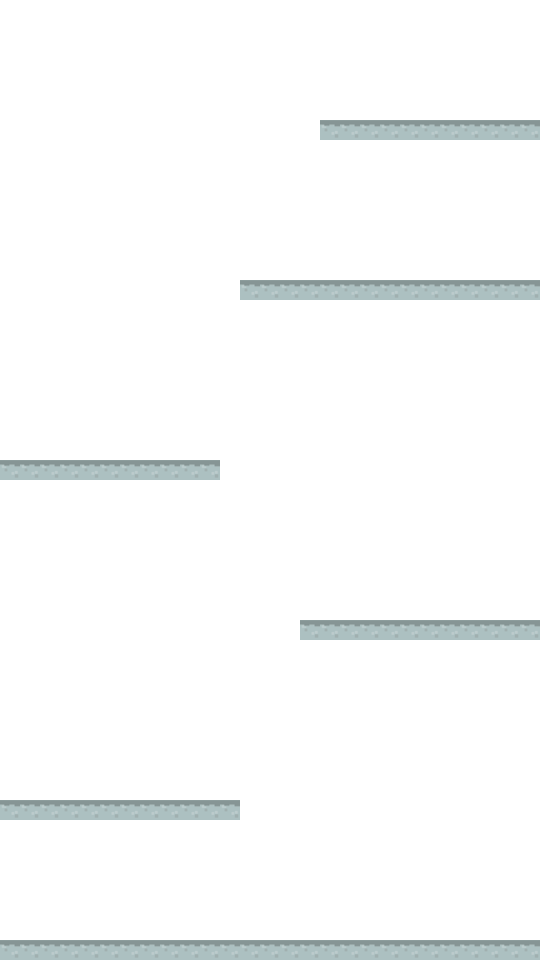
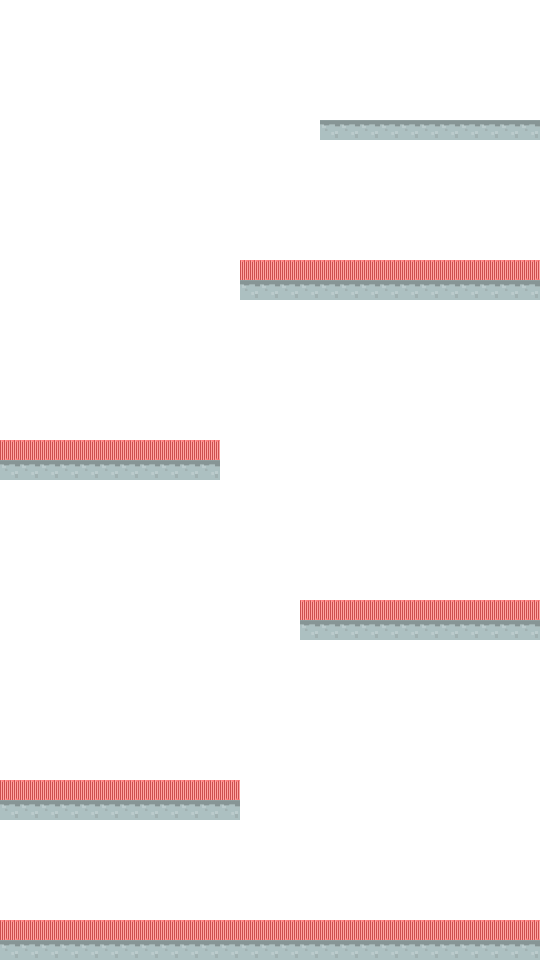
Improve screen generator

diff --git a/sky_kivy/convert_maps.py b/sky_kivy/convert_maps.py
@@ -27,7 +27,13 @@ pattern = "^map(\\d+).png"
 # tiles
 tile_size = 20
 tiledir = join(dirname(__file__), '..', 'platform_tutorial', 'images', 'tiles')
-tile = Image.open(join(tiledir, 'stoneMid.png')).resize((tile_size, tile_size))
+tiles = {
+    FLOOR_ROCK: Image.open(join(tiledir, 'stoneMid.png')).resize((tile_size, tile_size)),
+    FLOOR_MUD: Image.open(join(tiledir, 'dirtMid.png')).resize((tile_size, tile_size)),
+    FLOOR_ICE: Image.open(join(tiledir, 'snowMid.png')).resize((tile_size, tile_size)),
+    CHARGE: Image.open(join(tiledir, 'ray.png')).resize((tile_size, tile_size)),
+}
+
 
 def convert_maps():
     mapfiles = [f for f in listdir(mapdir) if isfile(join(mapdir, f)) and re.match(pattern, f)]
@@ -49,7 +55,8 @@ def convert_map(file, level):
             if pix in conversion:
                 code = conversion[pix]
                 ar[x, y] = code
-                if code == FLOOR_ROCK:
+                if code in tiles:
+                    tile = tiles[code]
                     back.paste(tile, (x * tile_size, (height - y - 1) * tile_size))
             elif y == 0 or (0 < ar[x, y - 1] < 10):
                 ar[x, y] = CHARGE_LOW  # low charge above naked floor
@@ -59,5 +66,5 @@ def convert_map(file, level):
 
 
 if __name__ == '__main__':
-    #convert_maps()
-    convert_map(join(mapdir, 'map1.png'), 1)
+    convert_maps()
+    #convert_map(join(mapdir, 'map1.png'), 1)

diff --git a/sky_kivy/main.py b/sky_kivy/main.py
@@ -607,7 +607,7 @@ class Victory(Screen):
 intro = Intro()
 menu = Menu()
 victory = Victory()
-debug_mode = True
+debug_mode = False
 
 
 class SkyKivyApp(App):
